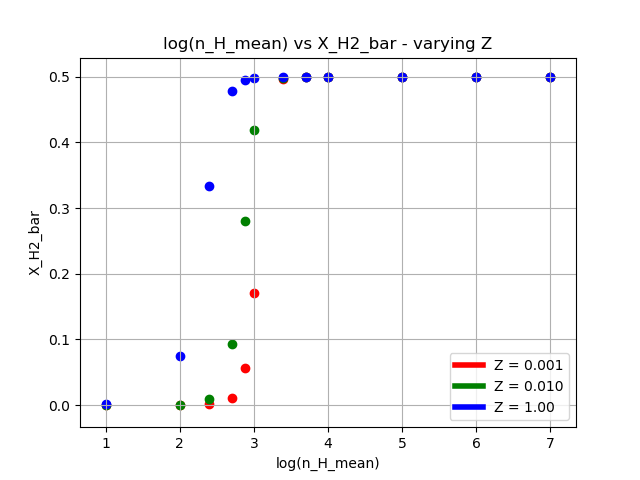
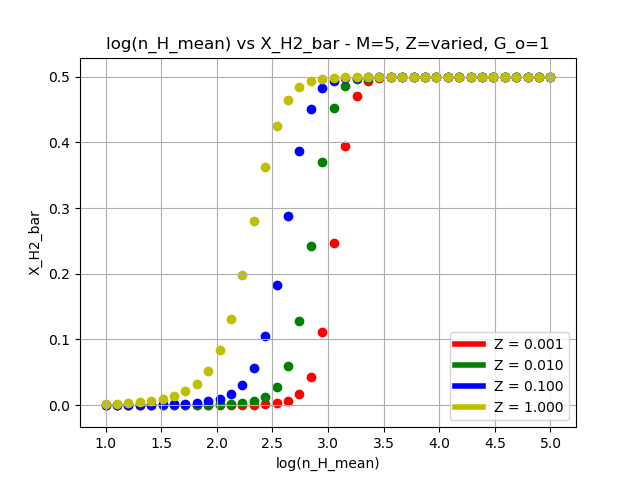
Added more points in n_H_bar_arr, also added a test C++ file
Added more points in n_H_bar_arr, made the array logspaced, so the plots can be traced more easily.
Also added a test C++ file.

diff --git a/XH2bar.py b/XH2bar.py
@@ -60,13 +60,14 @@ def varying_M():
     fig, ax = plt.subplots()
     Z = 1
     G_o = 1
-    mach_no_arr = np.array([1., 10., 100.])
-    n_H_mean_arr = np.array([1e-3, 1e-2, 1e-1, 1e1, 1e2, 2.5e2, 5e2, 7.5e2, 1e3, 2.5e3, 5e3, 1e4, 1e5, 1e6, 1e7])
+    mach_no_arr = np.array([1., 5., 10., 50.])
+    n_H_mean_arr = np.logspace(1, 5, 40)
     label = "M "
-    color_arr = ['r','g','b']
+    color_arr = ['r','g','b','y']
     custom_lines = [Line2D([0], [0], color='r', lw=4),
                     Line2D([0], [0], color='g', lw=4),
-                    Line2D([0], [0], color='b', lw=4)]
+                    Line2D([0], [0], color='b', lw=4),
+                    Line2D([0], [0], color='y', lw=4)]
     for m in range(0, len(mach_no_arr)):
         mach_no = mach_no_arr[m]
         color = str(color_arr[m])
@@ -96,13 +97,13 @@ def varying_M():
             plt.scatter(np.log10(n_H_mean), X_H2_bar[i], color=color)
     plt.xlabel('log(n_H_mean)')
     plt.ylabel('X_H2_bar')
-    plt.xlim(np.log10(1e-4), np.log10(1e9))
     plt.grid(b=True, which='both', axis='both')
-    plt.title('log(n_H_mean) vs X_H2_bar - varying M')
+    plt.title('log(n_H_mean) vs X_H2_bar - M=varied, Z=1, G_o=1')
     ax.legend(  custom_lines,
                 [   label + '= 1',
+                    label + '= 5',
                     label + '= 10',
-                    label + '= 100'  ],
+                    label + '= 50'  ],
                 loc = 'lower right'
                     )
     plt.savefig(os.path.join('log(n_H_mean)vsX_H2_bar--M.png'.format()))
@@ -113,13 +114,14 @@ def varying_Z():
     fig, ax = plt.subplots()
     mach_no = 5
     G_o = 1
-    Z_arr = np.array([0.001, 0.01, 1.])
-    n_H_mean_arr = np.array([1e1, 1e2, 2.5e2, 5e2, 7.5e2, 1e3, 2.5e3, 5e3, 1e4, 1e5, 1e6, 1e7])
+    Z_arr = np.array([0.001, 0.01, 0.1, 1.])
+    n_H_mean_arr = np.logspace(1, 5, 40)
     label = "Z "
-    color_arr = ['r','g','b']
+    color_arr = ['r','g','b','y']
     custom_lines = [Line2D([0], [0], color='r', lw=4),
                     Line2D([0], [0], color='g', lw=4),
-                    Line2D([0], [0], color='b', lw=4)]
+                    Line2D([0], [0], color='b', lw=4),
+                    Line2D([0], [0], color='y', lw=4)]
     for z in range(0, len(Z_arr)):
         Z = Z_arr[z]
         color = str(color_arr[z])
@@ -150,11 +152,12 @@ def varying_Z():
     plt.xlabel('log(n_H_mean)')
     plt.ylabel('X_H2_bar')
     plt.grid(b=True, which='both', axis='both')
-    plt.title('log(n_H_mean) vs X_H2_bar - varying Z')
+    plt.title('log(n_H_mean) vs X_H2_bar - M=5, Z=varied, G_o=1')
     ax.legend(  custom_lines,
                 [   label + '= 0.001',
                     label + '= 0.010',
-                    label + '= 1.00'  ],
+                    label + '= 0.100',
+                    label + '= 1.000'  ],
                 loc = 'lower right'
                     )
     plt.savefig(os.path.join('log(n_H_mean)vsX_H2_bar--Z.png'.format()))
@@ -165,13 +168,14 @@ def varying_G_o():
     fig, ax = plt.subplots()
     mach_no = 5
     Z = 1
-    G_o_arr = np.array([1., 10., 100.])
-    n_H_mean_arr = np.array([1e1, 1e2, 2.5e2, 5e2, 7.5e2, 1e3, 2.5e3, 5e3, 1e4, 1e5, 1e6, 1e7])
+    G_o_arr = np.array([1., 10., 50., 100.])
+    n_H_mean_arr = np.logspace(1, 5, 40)
     label = "G_o "
-    color_arr = ['r','g','b']
+    color_arr = ['r','g','b','y']
     custom_lines = [Line2D([0], [0], color='r', lw=4),
                     Line2D([0], [0], color='g', lw=4),
-                    Line2D([0], [0], color='b', lw=4)]
+                    Line2D([0], [0], color='b', lw=4),
+                    Line2D([0], [0], color='y', lw=4)]
     for g in range(0, len(G_o_arr)):
         G_o = G_o_arr[g]
         color = str(color_arr[g])
@@ -202,10 +206,11 @@ def varying_G_o():
     plt.xlabel('log(n_H_mean)')
     plt.ylabel('X_H2_bar')
     plt.grid(b=True, which='both', axis='both')
-    plt.title('log(n_H_mean) vs X_H2_bar - varying G_o')
+    plt.title('log(n_H_mean) vs X_H2_bar - M=5, Z=1, G_o=varied')
     ax.legend(  custom_lines,
                 [   label + '= 1',
                     label + '= 10',
+                    label + '= 50',
                     label + '= 100'  ],
                 loc = 'lower right'
                     )

diff --git a/test_cpp.cpp b/test_cpp.cpp
@@ -1,0 +1,99 @@
+#include<iostream>
+#include<stdio.h>
+#include<math.h>
+#include<fstream>
+#include<conio.h>
+
+using namespace std;
+
+class H2_fraction
+{
+public:
+  const float pi = 3.14159265
+  float make_pdf(float, float, float); //if this shows an error, replace variables in paranthesis with just 'float'
+  float make_lambda_jeans(float, float);
+  float make_X_H2(float, float, float);
+  float make_integral1();
+  float varying_M();
+  float varying_Z();
+  float varying_G_o();
+};
+
+float H2_fraction :: make_pdf(float s, float s_bar, float sigma_s)
+{
+  float pdf;
+  pdf = (1/np.sqrt(2*pi*pow(sigma_s, 2))) * (exp(-0.5*pow(((s - s_bar)/sigma_s), 2)));
+  return (pdf);
+}
+
+float H2_fraction :: make_lambda_jeans(float n_H, float s)
+{
+  float m_p, K_b, G, lambda_jeans;
+  int T_mean;
+  m_p = 1.672621777*pow(10, -24);   // g
+  T_mean = 10;                      //K
+  K_b = 1.38064852*pow(10, -16);    // ergs K-1
+  G = 6.67408*pow(10, -8);          // dyne cm^2 g^-2
+  lambda_jeans = ((sqrt(K_b * T_mean / m_p)) / sqrt(4 * pi * G * n_H * m_p));
+  return (lambda_jeans);
+}
+
+float H2_fraction :: make_X_H2(float n_H, float Z, float G_o)
+{
+  float m_p, K_b, G, kappa, DC, CC, rad_field_outside, exp_tau, numerator, denominator, X_H2;
+  int T_mean;
+  m_p = 1.672621777*pow(10, -24);   // g
+  T_mean = 10;                      //K
+  K_b = 1.38064852*pow(10, -16);    // ergs K-1
+  G = 6.67408*pow(10, -8);          // dyne cm^2 g^-2
+  kappa = 1000 * m_p;
+  DC = 1.7*pow(10,-11);             //Destruction coefficient
+  CC = 2.5*pow(10, -17);            //cm3 s-1  //Construction coefficient
+  rad_field_outside = G_o           //in solar units
+  exp_tau = exp(-kappa * n_H * ((sqrt(K_b * T_mean / m_p)) / sqrt(4* pi * G * n_H * m_p)));
+  numerator = DC * rad_field_outside * exp_tau;
+  denominator = CC * Z * n_H;
+  X_H2 = 1 / (2 + (numerator/denominator) );
+  return (X_H2);
+}
+
+float H2_fraction :: make_integral1()
+{
+  float s[1000], pdf[1000], n_H[1000], lambda_jeans[1000], X_H2[1000], X_H2_bar[1000];
+  float sigma_s, smin, s_bar, ds, integral1, n_H_mean, Z, G_o;
+  int mach_no;
+  sigma_s = sqrt(log(1 + pow((0.3 * mach_no), 2)));
+  s_bar = -0.5*pow(sigma_s, 2);
+  smin = -4*sigma_s + s_bar;
+  smax = 4*sigma_s + s_bar;
+  ds = (smax - smin)/1000;
+  n_H_mean = pow(10, 4);
+  Z = 1;
+  G_o = 1;
+  for(int i=0; i<1000; i++)
+  {
+    s[i] = smin + i*ds
+    n_H[i] = n_H_mean * np.exp(s)
+    lambda_jeans[i] = make_lambda_jeans(n_H[i], s[i])
+    X_H2[i] = make_X_H2(n_H[i], Z, G_o)
+    pdf[i] = make_pdf(s[i], s_bar, sigma_s)
+    integral1 += np.exp(s[i]) * pdf[i] * ds   //this should be ~1
+  }
+  //plotting(n_H, pdf, lambda_jeans, X_H2);
+  return (integral1);
+}
+
+float H2_fraction ::make_integral()
+{
+  float s[1000], pdf[1000], n_H[1000], lambda_jeans[1000], 
+}
+
+main()
+{
+  // order of variables:
+  // s, smin, smax, sigma_s, n_H, lambda_jeans, X_H2, pdf, integral1, X_H2_bar
+  g1, g2, g3, g4, g5, g6, g7, g8, g9, g10 = varying_G_o()  //varying G_o
+  m1, m2, m3, m4, m5, m6, m7, m8, m9, m10 = varying_M()  //varying mach_no
+  z1, z2, z3, z4, z5, z6, z7, z8, z9, z10 = varying_Z()  //varying matallicity
+
+}
